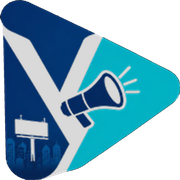
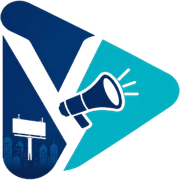
contact

diff --git a/components/contact.tsx b/components/contact.tsx
@@ -83,14 +83,32 @@ export function Contact() {
               </p>
             </div>
 
-            <form className="rounded-3xl bg-white p-5 shadow-xl sm:p-8 lg:rounded-[32px] lg:p-10">
+            <form
+              action="https://formsubmit.co/[email redacted]"
+              method="POST"
+              className="rounded-3xl bg-white p-5 shadow-xl sm:p-8 lg:rounded-[32px] lg:p-10"
+            >
+              <input
+                type="hidden"
+                name="_subject"
+                value="New Lead from Veno Media Website"
+              />
+              <input type="hidden" name="_captcha" value="false" />
+              <input
+                type="hidden"
+                name="_next"
+                value="https://www.venomedia.in/"
+              />
+
               <div className="grid gap-5 sm:grid-cols-2 sm:gap-6">
                 <div>
                   <label className="text-sm font-semibold text-slate-900">
                     Name
                   </label>
                   <input
+                    name="name"
                     type="text"
+                    required
                     placeholder="Your full name"
                     className="mt-2.5 w-full rounded-full border border-slate-200 bg-slate-50 px-4 py-3.5 text-sm text-slate-900 outline-none transition focus:border-cyan-400 focus:bg-white sm:mt-3 sm:px-5 sm:py-4 sm:text-base"
                   />
@@ -101,7 +119,9 @@ export function Contact() {
                     Email
                   </label>
                   <input
+                    name="email"
                     type="email"
+                    required
                     placeholder="[email redacted]"
                     className="mt-2.5 w-full rounded-full border border-slate-200 bg-slate-50 px-4 py-3.5 text-sm text-slate-900 outline-none transition focus:border-cyan-400 focus:bg-white sm:mt-3 sm:px-5 sm:py-4 sm:text-base"
                   />
@@ -112,7 +132,9 @@ export function Contact() {
                     Phone
                   </label>
                   <input
+                    name="phone"
                     type="tel"
+                    required
                     placeholder="+91 XXXXX XXXXX"
                     className="mt-2.5 w-full rounded-full border border-slate-200 bg-slate-50 px-4 py-3.5 text-sm text-slate-900 outline-none transition focus:border-cyan-400 focus:bg-white sm:mt-3 sm:px-5 sm:py-4 sm:text-base"
                   />
@@ -123,6 +145,7 @@ export function Contact() {
                     Company
                   </label>
                   <input
+                    name="company"
                     type="text"
                     placeholder="Company / Brand Name"
                     className="mt-2.5 w-full rounded-full border border-slate-200 bg-slate-50 px-4 py-3.5 text-sm text-slate-900 outline-none transition focus:border-cyan-400 focus:bg-white sm:mt-3 sm:px-5 sm:py-4 sm:text-base"
@@ -135,6 +158,8 @@ export function Contact() {
                   Project Details
                 </label>
                 <textarea
+                  name="message"
+                  required
                   placeholder="Tell us about your brand, goals, services, timeline and budget..."
                   rows={5}
                   className="mt-2.5 w-full resize-none rounded-3xl border border-slate-200 bg-slate-50 px-4 py-3.5 text-sm text-slate-900 outline-none transition focus:border-cyan-400 focus:bg-white sm:mt-3 sm:rounded-[28px] sm:px-5 sm:py-4 sm:text-base"